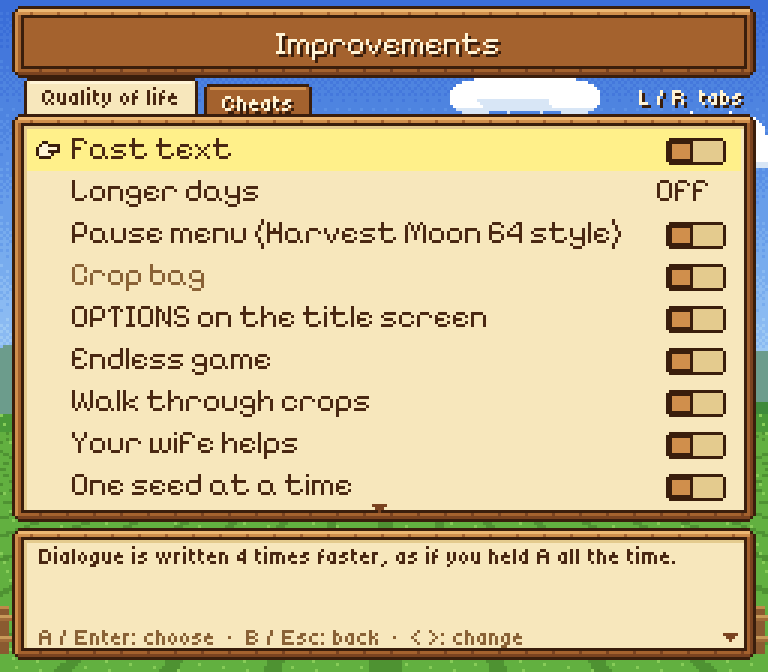
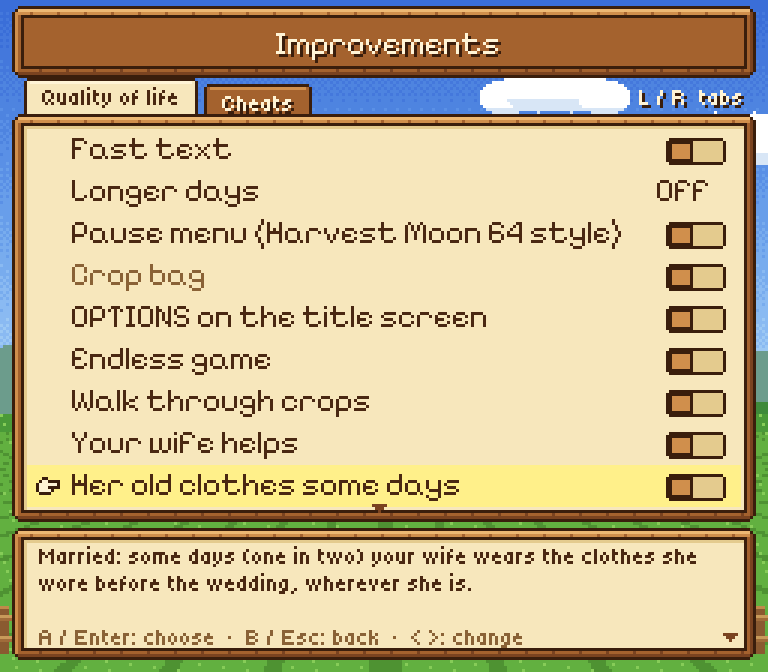
Her old clothes some days: an improvement of its own
The wife's clothes from before the wedding (one day in two) were part of
"Your wife helps". They are now a separate toggle, off by default, that
works with or without her help (config.ini: WifeOldClothes). Spanish and
Italian texts, README, changelog and the Improvements screenshot updated.

diff --git a/native/launcher.c b/native/launcher.c
@@ -46,7 +46,7 @@ enum {
 enum {
   V_FULLSCREEN = 1, V_SCALE, V_PICTURE, V_VSYNC, V_WIDESCREEN, V_SPRITES, V_VOLUME, V_FF, V_LANG,
   V_SHOWLAUNCHER, V_FASTTEXT, V_DAYLEN, V_PAUSE, V_TITLEOPT, V_ENDLESS, V_MONEY, V_STAMINA,
-  V_CLOCK, V_STOCK, V_BAGS, V_WEATHER, V_PADSEL, V_CROPS, V_SEEDS, V_MOUSE, V_BAG, V_TOUCH, V_SECOND, V_WIFE,
+  V_CLOCK, V_STOCK, V_BAGS, V_WEATHER, V_PADSEL, V_CROPS, V_SEEDS, V_MOUSE, V_BAG, V_TOUCH, V_SECOND, V_WIFE, V_CLOTHES,
   V_PACK = 1000,          /* + the mod's place (modpack.c) */
 };
 
@@ -215,6 +215,7 @@ static int get_value(int id)
   case V_PADSEL: return host_gamepad_current();
   case V_TOUCH: return c->touch;
   case V_WIFE: return c->wife_help;
+  case V_CLOTHES: return c->wife_clothes;
   case V_SECOND: return c->second_screen;
   }
   if (id >= V_PACK) { const ModPack *m = modpack_get(id - V_PACK); return m && m->on; }
@@ -252,6 +253,7 @@ static void set_value(int id, int v)
   case V_PADSEL: host_gamepad_select(v); return;
   case V_TOUCH: c->touch = v; break;
   case V_WIFE: c->wife_help = v; break;
+  case V_CLOTHES: c->wife_clothes = v; break;
   case V_SECOND: c->second_screen = v; second_apply(); break;
   }
   if (id >= V_PACK) {
@@ -402,6 +404,7 @@ static void build(void)
       toggle(V_ENDLESS, "Endless game", "The game no longer stops after Year 3: you watch the ending, then wake up on Summer 30 and keep farming through Year 4, 5 and beyond.");
       toggle(V_CROPS, "Walk through crops", "Crops on the farm no longer block your way, so you can reach the middle of a 3x3 patch to water it. They sway as you pass.");
       toggle(V_WIFE, "Your wife helps", "Married, with her ten hearts: talk to her twice in a day and she offers to help on the farm for a day, three or a week. Mornings, she feeds the animals and waters the crops (half of the work at most), then goes to her own midday chores.");
+      toggle(V_CLOTHES, "Her old clothes some days", "Married: some days (one in two) your wife wears the clothes she wore before the wedding, wherever she is.");
       toggle(V_SEEDS, "One seed at a time", "A seed bag is 9 seeds: each use sows only the tile in front of you, in any order you like. The bag and the stamina go at the 9th seed.");
       toggle(V_WIDESCREEN, "Widescreen", "Shows more of the map at the sides instead of black bars, as wide as your screen. At a map's edge and in small rooms it looks like the original (4:3).");
     } else {

diff --git a/native/config.c b/native/config.c
@@ -66,6 +66,7 @@ void config_defaults(Config *c)
    * player turns on what they like (Improvements, Options) */
   c->widescreen = false;
   c->pause_menu = false; c->title_options = false; c->endless = false; c->walk_crops = false; c->single_seed = false; c->mouse = false; c->crop_bag = false;
+  c->wife_help = false; c->wife_clothes = false;
   c->day_length = 0;
   c->touch = 0;                      /* TOUCH_AUTO: shown when the screen is touched */
   c->second_screen = true;           /* only where there is one */
@@ -182,6 +183,7 @@ void config_load(void)
         else if (!strcmp(k, "mousecontrols")) c->mouse = yes(v);
         else if (!strcmp(k, "cropbag")) c->crop_bag = yes(v);
         else if (!strcmp(k, "wifehelps")) c->wife_help = yes(v);
+        else if (!strcmp(k, "wifeoldclothes")) c->wife_clothes = yes(v);
       } else if (!strcmp(section, "[cheats]")) {
         if (!strcmp(k, "money")) c->money = yes(v);
         else if (!strcmp(k, "stamina")) c->stamina = yes(v);
@@ -222,8 +224,8 @@ void config_save(void)
     fprintf(f, "\n[Video]\nFullscreen = %d\nScale = %d\nVSync = %d\nSpriteLimits = %d\nWidescreen = %d\nExactPixels = %d\n\n",
             c->fullscreen, c->scale, c->vsync, c->sprite_limits, c->widescreen, c->exact_pixels);
     fprintf(f, "[Sound]\nVolume = %d\n\n", c->volume);
-    fprintf(f, "[Improvements]\nFastText = %d\nDayLength = %d\nPauseMenu = %d\nTitleOptions = %d\nEndless = %d\nWalkThroughCrops = %d\nOneSeedAtATime = %d\nMouseControls = %d\nCropBag = %d\nWifeHelps = %d\n\n",
-            c->fast_text, c->day_length, c->pause_menu, c->title_options, c->endless, c->walk_crops, c->single_seed, c->mouse, c->crop_bag, c->wife_help);
+    fprintf(f, "[Improvements]\nFastText = %d\nDayLength = %d\nPauseMenu = %d\nTitleOptions = %d\nEndless = %d\nWalkThroughCrops = %d\nOneSeedAtATime = %d\nMouseControls = %d\nCropBag = %d\nWifeHelps = %d\nWifeOldClothes = %d\n\n",
+            c->fast_text, c->day_length, c->pause_menu, c->title_options, c->endless, c->walk_crops, c->single_seed, c->mouse, c->crop_bag, c->wife_help, c->wife_clothes);
     fprintf(f, "[Cheats]\nMoney = %d\nStamina = %d\nFreezeClock = %d\nStock = %d\nBags = %d\nWeather = %d\n\n",
             c->money, c->stamina, c->freeze_clock, c->stock, c->bags, c->weather);
     fprintf(f, "[Touch]\n# Controls: 0 shown when the screen is touched, 1 always, 2 never\nControls = %d\nSecondScreen = %d\n\n",

diff --git a/native/wife.c b/native/wife.c
@@ -22,9 +22,10 @@
  * (group $44's own picture, at (360, 360)); Ann and Eve go into the tool
  * shed.
  *
- * Her clothes. Some days (one in two, by the day) she wears the clothes she
- * wore before the wedding: her own girl's pictures instead of the wife's,
- * on the farm and at home.
+ * Her clothes (an improvement of its own, "Her old clothes some days", on
+ * with or without her help). Some days (one in two, by the day) she wears
+ * the clothes she wore before the wedding: her own girl's pictures instead
+ * of the wife's, on the farm and at home.
  *
  * Everything here happens at the start of a GameLoop frame, where nothing of
  * the game is half done; tiles change through the game's own ChangeMapTile,
@@ -127,7 +128,9 @@ static void slot_picture(uint16_t sprite, bool flip)
   wr16(SLOT + SLOT_ANIMATION, flip ? 0x40 : 0);
   g_ram[SLOT + SLOT_FLAGS] |= 0x04;                    /* the picture changed */
 }
-static const uint16_t *clothes(int w) { return single_day() ? kGirl[w] : kWife; }
+/* her clothes from before the wedding: only with that improvement on, and on its days */
+static bool old_clothes(void) { return g_cfg.wife_clothes && single_day(); }
+static const uint16_t *clothes(int w) { return old_clothes() ? kGirl[w] : kWife; }
 /* her picture for a facing, standing or in mid-step */
 static void pose(int w, int facing, bool step)
 {
@@ -583,7 +586,7 @@ void wife_frame(uint8_t *ram)
 void wife_clean_point(uint8_t *ram, const HmRegs *regs)
 {
   g_hm_wife_on = g_cfg.wife_help;
-  if (!g_cfg.wife_help || !hm_diary_loaded(ram)) return;
+  if ((!g_cfg.wife_help && !g_cfg.wife_clothes) || !hm_diary_loaded(ram)) return;
   int w = wife_of();
   if (w < 0) return;
   W.frame++;
@@ -598,13 +601,13 @@ void wife_clean_point(uint8_t *ram, const HmRegs *regs)
   }
   if (!box && W.talking) W.talking = false;
   /* her clothes, wherever the game has her */
-  if (slot_is_wife() && single_day()) {
+  if (slot_is_wife() && old_clothes()) {
     int s = rd16(SLOT + SLOT_SPRITE);
     for (int k = 0; k < 6; k++) if (s == kWife[k]) slot_picture(kGirl[w][k], g_ram[SLOT + SLOT_ANIMATION] & 0x40);
   }
 
   /* the help (it waits while someone talks) */
-  if (!helping_today() || hour < 6 || box) return;
+  if (!g_cfg.wife_help || !helping_today() || hour < 6 || box) return;
   if (!W.planned) plan_day();
   int map = ram[HM_MAP_ID];
   bool house = map >= 0x15 && map <= 0x17;

diff --git a/native/i18n.c b/native/i18n.c
@@ -333,6 +333,8 @@ static const Pair kEs[] = {
   { "Tap a tool: hold it", "Toca una herramienta: tómala" },
   { "Your wife helps", "Tu esposa te ayuda" },
   { "Married, with her ten hearts: talk to her twice in a day and she offers to help on the farm for a day, three or a week. Mornings, she feeds the animals and waters the crops (half of the work at most), then goes to her own midday chores.", "Casado y con sus diez corazones: háblale dos veces en un día y te ofrece ayuda en la granja por un día, tres o una semana. Por las mañanas alimenta a los animales y riega los cultivos (la mitad del trabajo como máximo) y luego se va a sus quehaceres del mediodía." },
+  { "Her old clothes some days", "Su ropa de soltera algunos días" },
+  { "Married: some days (one in two) your wife wears the clothes she wore before the wedding, wherever she is.", "Casado: algunos días (uno de cada dos) tu esposa se viste con la ropa que usaba antes de la boda, esté donde esté." },
   { "Leave the farm to me, darling!", "¡Déjame la granja, cariño!" },
   { "I'll do half of the work every morning.", "Cada mañana haré la mitad del trabajo." },
   { "Darling, may I help you", "Cariño, ¿te puedo ayudar" },
@@ -682,6 +684,8 @@ static const Pair kIt[] = {
   { "Tap a tool: hold it", "Tocca un attrezzo: prendilo" },
   { "Your wife helps", "Tua moglie ti aiuta" },
   { "Married, with her ten hearts: talk to her twice in a day and she offers to help on the farm for a day, three or a week. Mornings, she feeds the animals and waters the crops (half of the work at most), then goes to her own midday chores.", "Sposato e con i suoi dieci cuori: parlale due volte in un giorno e ti offre aiuto alla fattoria per un giorno, tre o una settimana. Al mattino nutre gli animali e annaffia i raccolti (al massimo metà del lavoro), poi va alle sue faccende di mezzogiorno." },
+  { "Her old clothes some days", "I vestiti da nubile, certi giorni" },
+  { "Married: some days (one in two) your wife wears the clothes she wore before the wedding, wherever she is.", "Sposato: certi giorni (uno su due) tua moglie indossa i vestiti che portava prima del matrimonio, ovunque sia." },
   { "Leave the farm to me, darling!", "Lascia a me la fattoria, caro!" },
   { "I'll do half of the work every morning.", "Ogni mattina farò metà del lavoro." },
   { "Darling, may I help you", "Caro, posso aiutarti" },

diff --git a/native/config.h b/native/config.h
@@ -30,7 +30,7 @@ typedef struct {
   char language[8];                  /* "es", "en", "it" */
   bool show_launcher;                /* the launcher first, at start */
   /* improvements (the recompilation's quality-of-life package) */
-  bool fast_text, pause_menu, title_options, endless, walk_crops, single_seed, mouse, crop_bag, wife_help;
+  bool fast_text, pause_menu, title_options, endless, walk_crops, single_seed, mouse, crop_bag, wife_help, wife_clothes;
   int day_length;                    /* 0 off; 1 1.5x, 2 2x, 3 3x, 4 4x */
   /* cheats */
   bool money, stamina, freeze_clock, stock, bags;

diff --git a/.github/release_notes.md b/.github/release_notes.md
@@ -30,7 +30,8 @@ Prefer not to run a downloaded program? Build it yourself from the source with `
 - **Mods**: a `mods` folder and a **Mods** page in the launcher; drop the community's IPS / BPS patches in and turn them on. Your ROM is never changed.
 - **The launcher by day**: the start screen's farm under a sunny sky.
 - New improvements (all off by default):
-  - **Your wife helps on the farm**: married with her ten hearts, talk to her again after her line of the day and she offers to help for a day, three days or a week; mornings she feeds the animals and waters (half of the work at most, hopping over fences), then goes to her midday chores. Some days she wears her clothes from before the wedding.
+  - **Your wife helps on the farm**: married with her ten hearts, talk to her again after her line of the day and she offers to help for a day, three days or a week; mornings she feeds the animals and waters (half of the work at most, hopping over fences), then goes to her midday chores.
+  - **Her old clothes some days**: one day in two your wife wears the clothes she wore before the wedding (an improvement of its own).
   - **Crop bag**: 9 slots for what you carry, inside the pause menu; hold Q at the shipping box to ship it all.
   - **Walk through crops**: crops no longer block the way, and the plants sway as you pass.
   - **One seed at a time**: each use sows only the tile in front of you.
@@ -46,7 +47,8 @@ Prefer not to run a downloaded program? Build it yourself from the source with `
 - **Mods**: una carpeta `mods` y una página **Mods** en el launcher; pon ahí los parches IPS / BPS de la comunidad y actívalos. Tu ROM nunca se modifica.
 - **El launcher de día**: la granja de la pantalla de inicio bajo un cielo soleado.
 - Mejoras nuevas (todas apagadas de fábrica):
-  - **Tu esposa te ayuda en la granja**: casado y con sus diez corazones, háblale otra vez después de su frase del día y te ofrece ayudarte un día, tres días o una semana; en las mañanas alimenta a los animales y riega (como máximo la mitad del trabajo, brincando las cercas) y luego se va a sus quehaceres del mediodía. Algunos días se viste como cuando era soltera.
+  - **Tu esposa te ayuda en la granja**: casado y con sus diez corazones, háblale otra vez después de su frase del día y te ofrece ayudarte un día, tres días o una semana; en las mañanas alimenta a los animales y riega (como máximo la mitad del trabajo, brincando las cercas) y luego se va a sus quehaceres del mediodía.
+  - **Su ropa de soltera algunos días**: uno de cada dos días tu esposa se viste con la ropa de antes de la boda (una mejora aparte).
   - **Mochila de cosechas**: 9 espacios para lo que cargas, dentro del menú de pausa; mantén Q en la caja de envíos para enviarlo todo.
   - **Caminar entre cultivos**: los cultivos ya no bloquean el paso y las plantas se mecen al pasar.
   - **Una semilla a la vez**: cada uso siembra solo la casilla de enfrente.
@@ -59,7 +61,7 @@ Prefer not to run a downloaded program? Build it yourself from the source with `
 - The whole game in C, with the console's picture and sound. / Todo el juego en C, con la imagen y el sonido de la consola.
 - A launcher in the look of the game (English, Español, Italiano): options, controls (keyboard, gamepads, touch), save states. / Un launcher con el aspecto del juego: opciones, controles (teclado, gamepads, táctil), estados guardados.
 - **Everything starts off**: the game is exactly the console's until you turn on what you like. / **Todo viene apagado**: el juego es el de la consola hasta que activas lo que quieras.
-  - Improvements / Mejoras: widescreen, Harvest Moon 64-style pause menu, crop bag, walk through crops, one seed at a time, mouse controls, your wife helps on the farm, fast text, longer days, endless game, OPTIONS on the title screen.
+  - Improvements / Mejoras: widescreen, Harvest Moon 64-style pause menu, crop bag, walk through crops, one seed at a time, mouse controls, your wife helps on the farm, her old clothes some days, fast text, longer days, endless game, OPTIONS on the title screen.
   - Cheats / Trucos: money, stamina, stop the clock, lumber and fodder, seeds and feed, weather.
 - **Mods**: drop the community's IPS / BPS patches into `mods/` and turn them on in the launcher (see `mods/MODS.md`). / Pon los parches IPS / BPS de la comunidad en `mods/` y actívalos en el launcher (ver `mods/MODS.es.md`).
 - Android: touch controls in the game's style; on two-screen devices (AYN Thor) a live pause menu on the second screen. / Android: controles táctiles con el estilo del juego; en equipos de dos pantallas (AYN Thor), el menú de pausa en vivo en la segunda pantalla.

diff --git a/CHANGELOG.md b/CHANGELOG.md
@@ -9,7 +9,8 @@
 - **Mods**: a `mods` folder and a **Mods** page in the launcher; drop the community's IPS / BPS patches in and turn them on. Your ROM is never changed.
 - **The launcher by day**: the start screen's farm under a sunny sky.
 - New improvements (all off by default):
-  - **Your wife helps on the farm**: married with her ten hearts, talk to her again after her line of the day and she offers to help for a day, three days or a week; mornings she feeds the animals and waters (half of the work at most, hopping over fences), then goes to her midday chores. Some days she wears her clothes from before the wedding.
+  - **Your wife helps on the farm**: married with her ten hearts, talk to her again after her line of the day and she offers to help for a day, three days or a week; mornings she feeds the animals and waters (half of the work at most, hopping over fences), then goes to her midday chores.
+  - **Her old clothes some days**: one day in two your wife wears the clothes she wore before the wedding (an improvement of its own).
   - **Crop bag**: 9 slots for what you carry, inside the pause menu; hold Q at the shipping box to ship it all.
   - **Walk through crops**: crops no longer block the way, and the plants sway as you pass.
   - **One seed at a time**: each use sows only the tile in front of you.
@@ -37,7 +38,8 @@ cheats. Built on your own computer with `build.bat`.
 - **Mods**: una carpeta `mods` y una página **Mods** en el launcher; pon ahí los parches IPS / BPS de la comunidad y actívalos. Tu ROM nunca se modifica.
 - **El launcher de día**: la granja de la pantalla de inicio bajo un cielo soleado.
 - Mejoras nuevas (todas apagadas de fábrica):
-  - **Tu esposa te ayuda en la granja**: casado y con sus diez corazones, háblale otra vez después de su frase del día y te ofrece ayudarte un día, tres días o una semana; en las mañanas alimenta a los animales y riega (como máximo la mitad del trabajo, brincando las cercas) y luego se va a sus quehaceres del mediodía. Algunos días se viste como cuando era soltera.
+  - **Tu esposa te ayuda en la granja**: casado y con sus diez corazones, háblale otra vez después de su frase del día y te ofrece ayudarte un día, tres días o una semana; en las mañanas alimenta a los animales y riega (como máximo la mitad del trabajo, brincando las cercas) y luego se va a sus quehaceres del mediodía.
+  - **Su ropa de soltera algunos días**: uno de cada dos días tu esposa se viste con la ropa de antes de la boda (una mejora aparte).
   - **Mochila de cosechas**: 9 espacios para lo que cargas, dentro del menú de pausa; mantén Q en la caja de envíos para enviarlo todo.
   - **Caminar entre cultivos**: los cultivos ya no bloquean el paso y las plantas se mecen al pasar.
   - **Una semilla a la vez**: cada uso siembra solo la casilla de enfrente.

diff --git a/README.md b/README.md
@@ -251,8 +251,10 @@ music keeps playing.
   lines) and hopping over the fences; away from the farm the work gets done
   all the same, at the same pace (the clock stops indoors, and so does she). At 11:00 she
   goes to her midday chores, as in the game (Maria, Nina and Ellen on the
-  farm, Ann and Eve in the tool shed). Some days she wears the clothes she
-  wore before the wedding. Kept in your diary.
+  farm, Ann and Eve in the tool shed). Kept in your diary.
+- **Her old clothes some days** *(off by default)* — married, one day in
+  two your wife wears the clothes she wore before the wedding, wherever she
+  is (with or without her help).
 - **Mouse controls** *(off by default, in Controls → Keyboard)* — left click next to you uses the tool there, left click farther away walks there
   (hold it to follow the pointer), right click talks, picks up or
   opens. A thin square marks the tile under the pointer (light within

diff --git a/README.es.md b/README.es.md
@@ -264,8 +264,10 @@ tu ROM. La música sigue sonando.
   las cercas; si no estás en la granja, el trabajo igual se hace, al mismo
   ritmo (en las casas el reloj se para, y ella también). A las 11:00 se va a sus
   quehaceres del mediodía, como en el juego (María, Nina y Ellen en la
-  granja, Ann y Eve en la bodega). Algunos días se viste como cuando era
-  soltera. Se guarda en tu diario.
+  granja, Ann y Eve en la bodega). Se guarda en tu diario.
+- **Su ropa de soltera algunos días** *(apagado por defecto)* — casado, uno
+  de cada dos días tu esposa se viste con la ropa que usaba antes de la
+  boda, esté donde esté (te ayude o no).
 - **Controles con ratón** *(apagado por defecto, en Controles → Teclado)* — clic izquierdo junto a
   ti usa la herramienta ahí, clic izquierdo
   más lejos camina hasta ahí (mantenlo para seguir al puntero), clic
